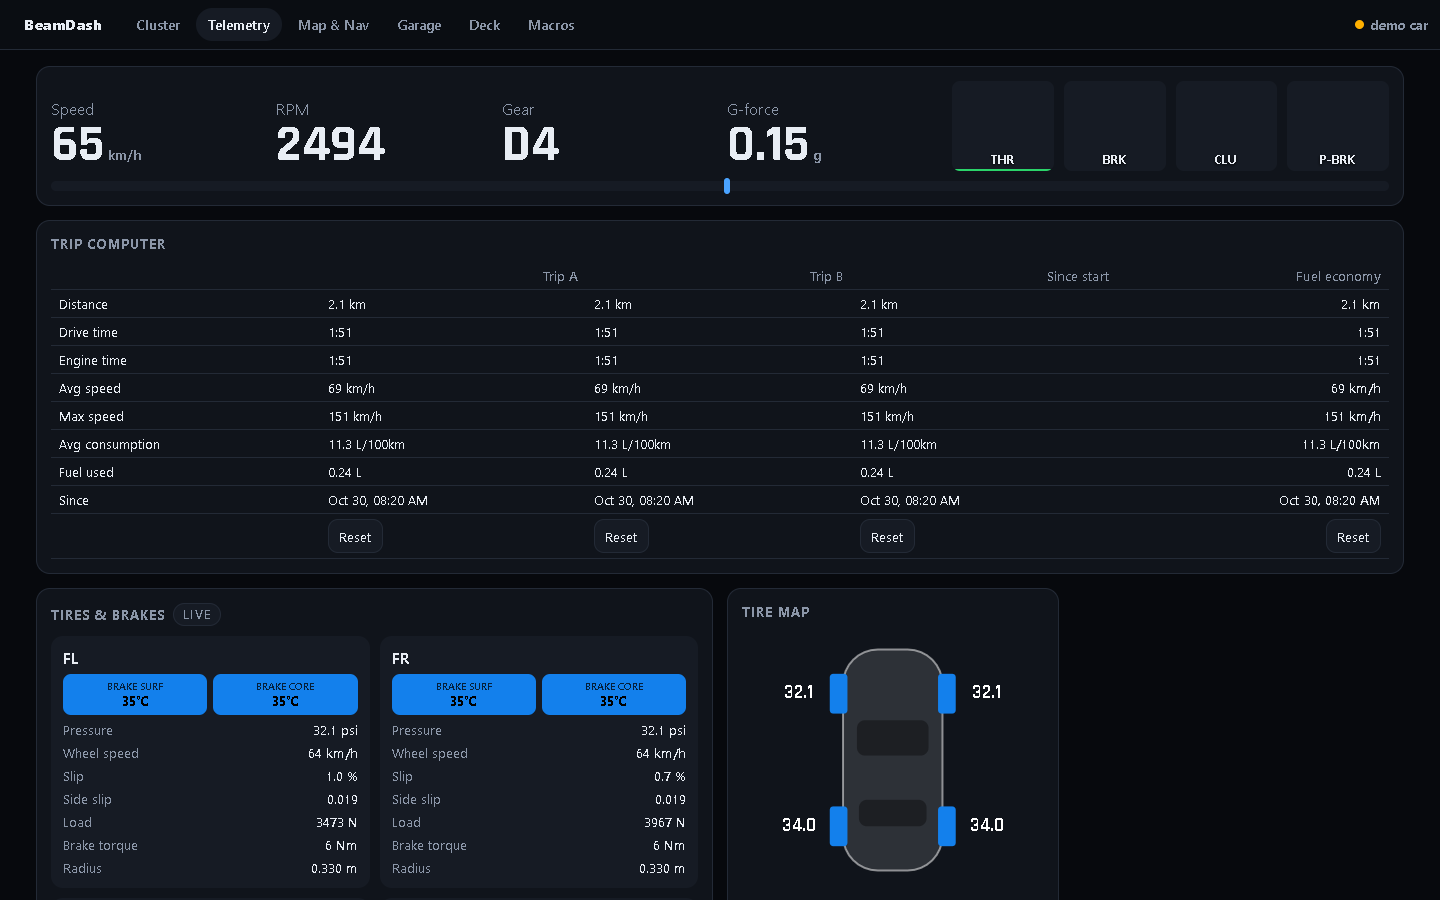
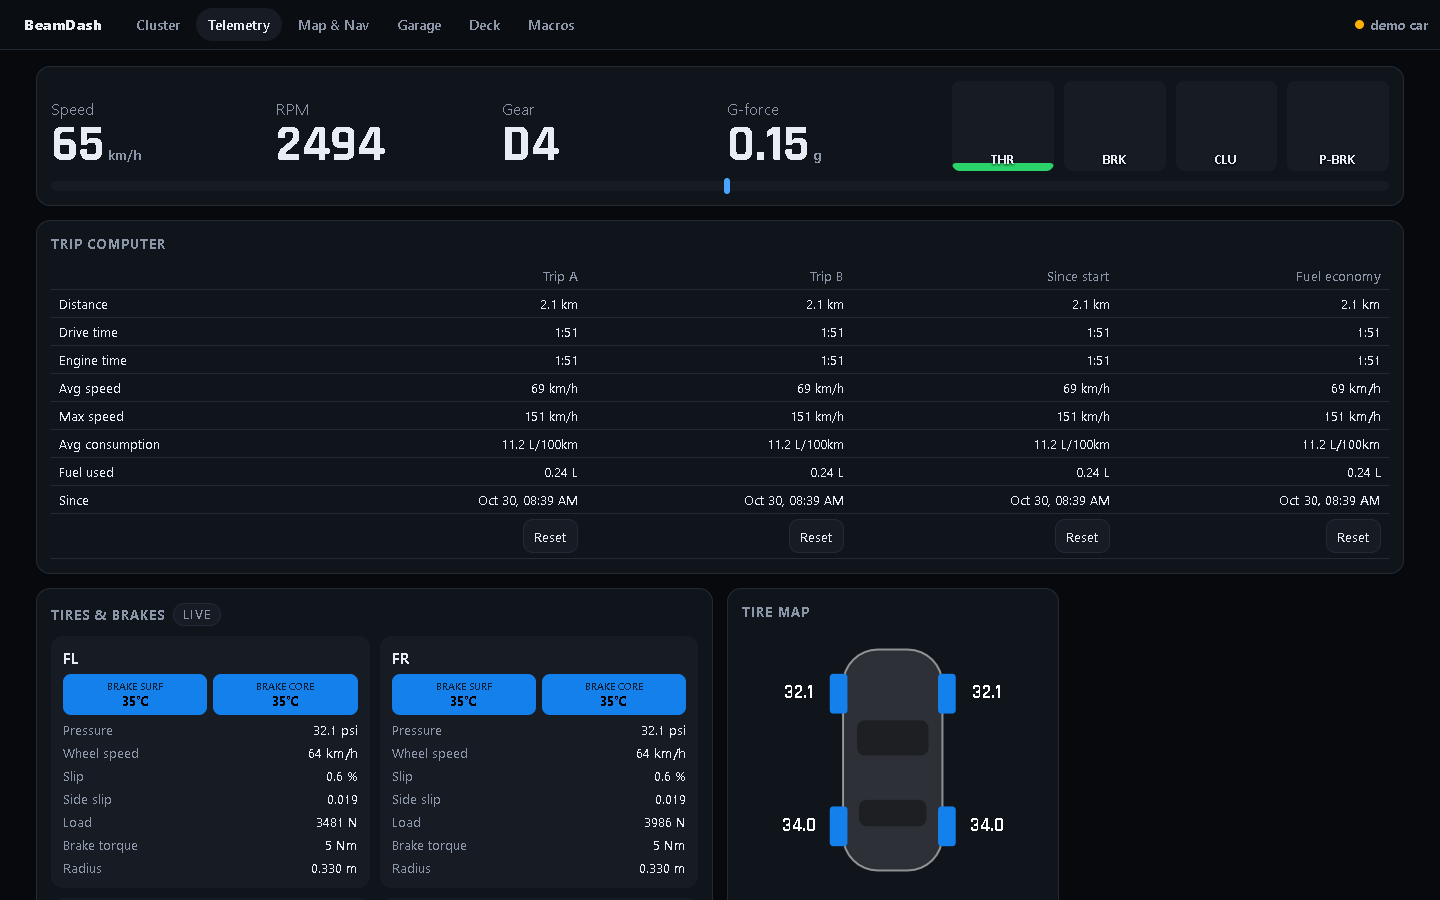
BeamDash alpha 0.03: cruise-control fix, docs and stock images
Mod: cruise now uses BeamNG's cruiseControl vehicle extension and reports the real set speed. Server unchanged. Web app: link-to-a-look URLs, opaque pop-ups, aligned trip table.

Changed region(s): [[0.6562, 0.1556, 0.7188, 0.1867]]

diff --git a/media/promo.html b/media/promo.html
@@ -1,7 +1,7 @@
 <!doctype html>
 <html><head><meta charset="utf-8">
-<title>BeamDash alpha 0.02 promo</title>
-<!-- Promo art for BeamDash alpha 0.02. Render with headless Chrome: ?v=banner at 1920x1080, ?v=designs at 1920x1490. -->
+<title>BeamDash alpha 0.03 promo</title>
+<!-- Promo art for BeamDash alpha 0.03. Render with headless Chrome: ?v=banner at 1920x1080, ?v=designs at 1920x1490. -->
 <link href="https://fonts.googleapis.com/css2?family=Rajdhani:wght@500;600;700&family=Inter:wght@400;600&display=swap" rel="stylesheet">
 <style>
   * { box-sizing: border-box; margin: 0; }
@@ -33,12 +33,12 @@
 <body>
   <section class="view banner">
     <div class="copy">
-      <div class="badge">alpha 0.02 · open source</div>
+      <div class="badge">alpha 0.03 · open source</div>
       <h1>Beam<span>Dash</span></h1>
       <p class="tag">Live gauge clusters, telemetry and car control for BeamNG.drive, on your phone, tablet or second screen.</p>
-      <div class="chips"><span class="chip">20 cluster designs</span><span class="chip">Every car</span><span class="chip">Info pages · ◀ OK ▶</span><span class="chip">Trip computer</span><span class="chip">Live map &amp; GPS</span><span class="chip">Cruise · ACC · ADAS</span><span class="chip">Stream Deck &amp; macros</span><span class="chip">Now playing</span></div>
+      <div class="chips"><span class="chip">20 cluster designs</span><span class="chip">Cruise control fixed</span><span class="chip">Info pages · ◀ OK ▶</span><span class="chip">Trip computer</span><span class="chip">Live map &amp; GPS</span><span class="chip">Cruise · ACC · ADAS</span><span class="chip">Stream Deck &amp; macros</span><span class="chip">Now playing</span></div>
     </div>
-    <div class="stack"><img src="screenshots/cluster-bav86.png"><img src="screenshots/cluster-curve26.png"><img src="screenshots/cluster-skyline99.png"></div>
+    <div class="stack"><img src="screenshots/cluster-bav95.png"><img src="screenshots/cluster-curve26.png"><img src="screenshots/cluster-skyline99.png"></div>
     <img class="phone" src="screenshots/page-deck-phone.png">
     <div class="foot">Works with every car · Phone · iPad · Desktop · Free mod + tiny Node.js server</div>
   </section>

diff --git a/public/css/app.css b/public/css/app.css
@@ -139,6 +139,7 @@ body.cluster.chrome-hidden .dock { transform: translateY(140%); }
 .wheel button.ok { background: rgba(74, 163, 255, .3); border-color: var(--accent); font-size: 15px; }
 .wheel button:active { transform: scale(.94); background: rgba(74, 163, 255, .5); }
 @media (max-height: 420px) { .wheel { gap: 4px; } .wheel button { width: 44px; height: 44px; } }
+body.clean .bd-nav, body.clean .dock, body.clean .wheel, body.clean .chips, body.clean .rotate-hint { display: none !important; }
 .rotate-hint { display: none; }
 @media (orientation: portrait) and (max-width: 700px) {
   .rotate-hint { display: block; position: fixed; left: 0; right: 0; bottom: 90px; text-align: center; color: var(--dim); font-size: 13px; z-index: 20; pointer-events: none; }

diff --git a/public/js/cluster.js b/public/js/cluster.js
@@ -8,6 +8,11 @@
   const ctx = canvas.getContext('2d');
   const VW = 1600, VH = 600;
   let design = DESIGNS.find((x) => x.id === S.design) || DESIGNS[0];
+  // link straight to a look: /?design=bav86&page=trip&clean=1 (clean hides all controls, e.g. for screenshots or OBS)
+  const qp = new URLSearchParams(location.search);
+  if (qp.get('design')) design = DESIGNS.find((x) => x.id === qp.get('design')) || design;
+  if (qp.get('page')) MFD.goto(qp.get('page'));
+  if (qp.has('clean')) document.body.classList.add('clean');
 
   // ---------------------------------------------------------------- options
   function optsFor(def) {

diff --git a/public/js/mfd.js b/public/js/mfd.js
@@ -277,6 +277,10 @@ window.MFD = (() => {
     c.save();
     c.globalAlpha = a;
     const r = area || { x: 490, y: 280, w: 620, h: 300 };
+    // solid backing so glowing gauge numbers don't show through the pop-up
+    c.fillStyle = '#000';
+    rrect(c, r.x, r.y, r.w, r.h, Math.min(r.w, r.h) * 0.06); c.fill();
+    c.strokeStyle = 'rgba(255,255,255,.12)'; c.lineWidth = 2; c.stroke();
     draw(c, d, r.x, r.y, r.w, r.h, th);
     c.restore();
   }

diff --git a/public/telemetry.html b/public/telemetry.html
@@ -33,6 +33,7 @@
     details { border-bottom: 1px solid var(--line); padding: 6px 0; }
     details summary { cursor: pointer; font-weight: 600; font-size: 14px; }
     .search { display: flex; gap: 8px; margin-bottom: 8px; }
+    #trips td:not(:first-child), #trips th:not(:first-child) { text-align: right; }
   </style>
 </head>
 <body>

diff --git a/README.md b/README.md
@@ -3,7 +3,7 @@
 <p align="center"><b>Live gauge clusters, telemetry and car control for BeamNG.drive, on your phone, tablet or second screen.</b></p>
 
 <p align="center">
-  <a href="https://github.com/samsad001/BeamDash/releases"><img src="https://img.shields.io/badge/release-alpha%200.02-ff7a2a?style=for-the-badge" alt="Release alpha 0.02"></a>
+  <a href="https://github.com/samsad001/BeamDash/releases"><img src="https://img.shields.io/badge/release-alpha%200.03-ff7a2a?style=for-the-badge" alt="Release alpha 0.03"></a>
   <img src="https://img.shields.io/badge/BeamNG.drive-0.32%2B-2f80ff?style=for-the-badge" alt="BeamNG.drive 0.32+">
   <img src="https://img.shields.io/badge/Node.js-18%2B-3c873a?style=for-the-badge&logo=node.js&logoColor=white" alt="Node.js 18+">
   <img src="https://img.shields.io/badge/dependencies-0-8a95a8?style=for-the-badge" alt="Zero dependencies">
@@ -20,8 +20,8 @@
   <a href="CHANGELOG.md">Changelog</a>
 </p>
 
-> [!WARNING]
-> **Alpha 0.02.** Cruise control and adaptive cruise don't respond in-game in this release: the mod looks for a cruise *controller*, but BeamNG provides cruise as a vehicle *extension*. Everything else works. A fix is planned for the next release.
+> [!NOTE]
+> **Alpha 0.03.** Cruise control and adaptive cruise were rewritten in this release to use BeamNG's `cruiseControl` vehicle extension (0.01 and 0.02 couldn't control cruise at all). The fix hasn't been confirmed in-game across many cars yet, so please [report](https://github.com/samsad001/BeamDash/issues) how it behaves.
 
 ## ✨ Features
 
@@ -31,6 +31,7 @@
 - 🧮 **Trip computer**: Trip A, Trip B, Since start and a resettable fuel economy, kept on the server so every screen agrees. Hold OK to reset.
 - 🎚 **Deck**: a Stream Deck-style button pad for a second phone, plus a **URL for every function** for Elgato Stream Deck, Companion, Touch Portal or keyboard shortcuts.
 - 🎵 **Now playing** from your PC (Linux, via playerctl), with album art and controls.
+- 🔗 **Link straight to a look**: `/?design=bav86&page=trip&clean=1` opens a design and page with all controls hidden, for OBS or a wall-mounted tablet.
 - 📊 **Live telemetry**: tire and brake temperatures, pressures, slip and load per wheel, engine and drivetrain, G-force, live charts, and every one of the ~200 values the game's UI apps can read.
 - 🗺 **Live map**: the level's real road network with every vehicle and your GPS route. Tap to navigate and the route appears in the game too.
 - 🛡 **Drive assist**: cruise control, adaptive cruise with 4 following distances, forward collision warning, emergency braking, blind-spot monitor, speed-limit signs, ESC and drive modes.
@@ -50,7 +51,7 @@
 
 ## 🚀 Quick start
 
-1. **Download** `BeamDash-alpha-0.02.zip` from the [Releases page](https://github.com/samsad001/BeamDash/releases) and unzip it anywhere.
+1. **Download** `BeamDash-alpha-0.03.zip` from the [Releases page](https://github.com/samsad001/BeamDash/releases) and unzip it anywhere.
 2. **Install the mod:** put `BeamDash-mod.zip` in your BeamNG `mods` folder, or run `bash install-mod.sh` (Linux) / `install-mod.ps1` (Windows). Don't put the whole download in `mods`.
 3. **Start the server:** `bash start-server.sh` (Linux) or `start-server.bat` (Windows). You need [Node.js](https://nodejs.org) 18 or newer.
 4. **Open the address it prints** (e.g. `http://192.168.1.20:8080`) on your phone, iPad or PC, and spawn a car in BeamNG.
@@ -239,6 +240,10 @@ BeamDash/
   server/trips.js           trip computer
   server/media.js           now playing (playerctl)
   data/                     saved trips, ADAS settings, Deck layout (created on first run)
+  docs/MOD_DESCRIPTION.md   mod page text for the BeamNG repository / forum (plain + BBCode)
+  docs/MOD_DOCUMENTATION.md full guide to the mod: install, network, data, commands, assists, troubleshooting
+  docs/TECHNICAL.md         technical write-up: architecture, protocols, algorithms, extending
+  media/                    stock images: banner, designs collage, screenshots/ (+ promo.html source)
   server/demo.js            demo car used when the game isn't connected
   public/                   the web app (cluster, telemetry, map, garage)
     js/designs.js           all cluster designs; add your own with reg({...})
@@ -247,7 +252,7 @@ BeamDash/
 
 ## 🧪 Status
 
-This is an early alpha. It has been tested live on native Linux (BeamNG.drive with LuaSocket): car data, telemetry, the road map and car info all stream correctly. Tuning, navigation, lights and drive-mode commands, and Windows in-game, still need wider testing. Bug reports are very welcome: please [open an issue](https://github.com/samsad001/BeamDash/issues) with your BeamNG version, OS and any console (`~`) lines that mention `beamDash`.
+This is an early alpha. It has been tested live on native Linux (BeamNG.drive with LuaSocket): car data, telemetry, the road map and car info all stream correctly. Tuning, navigation, lights and drive-mode commands, the new cruise-control code, and Windows in-game, still need wider testing. Bug reports are very welcome: please [open an issue](https://github.com/samsad001/BeamDash/issues) with your BeamNG version, OS and any console (`~`) lines that mention `beamDash`.
 
 ## 📄 License
 

diff --git a/docs/TECHNICAL.md b/docs/TECHNICAL.md
@@ -1,4 +1,4 @@
-# BeamDash technical write-up (alpha 0.02)
+# BeamDash technical write-up (alpha 0.03)
 
 > What changed in each release: [`CHANGELOG.md`](../CHANGELOG.md).
 
@@ -63,7 +63,7 @@ Every datagram is one JSON object with a type field `t`. Messages from the vehic
 
 | `t` | From | Rate | Payload (main fields) |
 |---|---|---|---|
-| `veh` | vehicle | 30 Hz | `e` (~60 whitelisted electrics), `g` [gx, gy, gz] m/s², `pos`, `vel`, `dir` (vec3), every 2nd packet `wheels[]` |
+| `veh` | vehicle | 30 Hz | `e` (~60 whitelisted electrics, incl. cruise state), `g` [gx, gy, gz] m/s², `pos`, `vel`, `dir` (vec3), every 2nd packet `wheels[]` |
 | `electrics` | vehicle | 4 Hz | `e`: every scalar in `electrics.values` |
 | `pt` | vehicle | 4 Hz | `pt{name → device scalars + rpmOut}`, `energy{tank → scalars}`, `damage` |
 | `spec` | vehicle | 5 s | `engine{maxRPM, idleRPM, revLimiterRPM, maxPower, maxTorque, …}`, `gearbox{type, ratios}`, `controllers[]`, `driveMode`, `mass` |
@@ -229,7 +229,7 @@ ACC is a proportional gap controller on top of the game's own cruise control (wh
 | `playerInfo.firstPlayerSeated` | stream only the player's car | ✅ confirmed |
 | `map.objects`, `map.getMap()`, `map.findClosestRoad` | world, roads, limits | ✅ confirmed (road network received) |
 | `core_vehicles.getCurrentVehicleDetails`, `core_vehicle_manager.getPlayerVehicleData` | car info, tuning variables | ✅ confirmed |
-| `controller.getController('cruiseControl')` | cruise / ACC | ❌ not found in-game; cruise doesn't work (a fix is planned for the next release) |
+| `extensions.cruiseControl` (`setSpeed`, `changeSpeed`, `holdCurrentSpeed`, `setEnabled`, `getConfiguration`) | cruise / ACC | ⚠ patched to the extension API after the controller lookup failed in-game; to be confirmed |
 | `core_vehicle_partmgmt.setConfigVars` | apply tuning | to be confirmed in-game |
 | `core_groundMarkers.setPath` / `routePlanner.path` | GPS route | to be confirmed in-game |
 | `electrics.setLightsState`, `toggle_*_signal`, `toggle_warn_signal`, `toggle_fog_lights`, `horn` | lights | to be confirmed in-game |
@@ -294,6 +294,8 @@ It appears in the picker automatically (grouped by `era`) with a live thumbnail.
 
 **Add an MFD page:** add `{ id, name }` to `PAGES` and a renderer `R.<id>` (plus a `line()` case) in `mfd.js`.
 
+**Link to a specific look** (for OBS or a kiosk tablet): `/?design=<id>&page=<page>&clean=1`.
+
 ---
 
 ## 12. Testing
@@ -301,13 +303,13 @@ It appears in the picker automatically (grouped by `era`) with a live thumbnail.
 - **Demo mode** covers every page, every design and every action without the game.
 - A **fake-game UDP script** (sends `veh` / `world` packets and a chunked 6 000-node map, then listens on 4446) verified the demo → live hand-off, chunk reassembly and command forwarding.
 - Lua files are checked for block balance; the game itself is the final check (watch the `~` console for `beamDash` lines).
+- Stock images are captured from the demo server with headless Chrome over the DevTools protocol (the live SSE stream keeps pages "busy", so simple `--screenshot` never finishes).
 
 ---
 
 ## 13. Known limitations
 
-- Cruise control and adaptive cruise don't work in-game (a fix is planned for the next release).
-- Several command APIs (§7) are still to be confirmed in-game.
+- Several command APIs (§7) are still to be confirmed in-game. Cruise control was just switched to the extension API.
 - Tire *surface* temperature only appears if the BeamNG version exposes it; brake temperatures and pressures are always there.
 - Speed limits depend on the level's navigation data.
 - Range and consumption are estimates from fuel-volume changes; they settle after a few hundred metres.

diff --git a/CHANGELOG.md b/CHANGELOG.md
@@ -4,6 +4,33 @@ Each release lists the changes to the **mod** (the Lua files inside BeamNG) and 
 
 ---
 
+## alpha 0.03 (2026-10-30)
+
+**Mod: changed. Reinstall it** (`BeamDash-mod.zip`, or copy the two `lua/…` files over an unpacked install, then restart BeamNG).
+
+### Mod
+- `beamDashVeh.lua`
+  - **Cruise control fixed.** It now uses BeamNG's `cruiseControl` vehicle *extension* (loading it if needed), and only falls back to a `cruiseControl` controller. In 0.01 and 0.02 the mod only looked for the controller, which cars don't have, so every cruise button did nothing.
+  - Cruise state (on/off and set speed) is read from the extension's `getConfiguration` and sent as `cruiseControlActive` / `cruiseControlTarget`, so the cluster shows the real set speed.
+  - *Resume* re-applies the last set speed (the extension can forget it when switched off).
+  - New `cruiseSetSpeed()` function the game-side extension calls.
+  - Clear error ("this car has no cruise control") when a car really has none.
+- `beamDash.lua`: adaptive cruise and *set speed* now go through `beamDashVeh.cruiseSetSpeed` instead of the controller.
+
+### Server
+- No changes.
+
+### Web app
+- Link straight to a look: `/?design=<id>&page=<page>&clean=1` (`clean` hides all controls, for screenshots, OBS or a kiosk tablet).
+- Pop-up info pages have a solid background, so gauge glow no longer shows through.
+- Trip computer table on Telemetry: number columns line up.
+
+### Docs and images (new)
+- `docs/MOD_DESCRIPTION.md` (repository / forum text, plain and BBCode), `docs/MOD_DOCUMENTATION.md` (install, network, data, commands, assists, troubleshooting, FAQ), `docs/TECHNICAL.md` (architecture, protocol, algorithms, APIs).
+- `media/`: banner, designs collage, `promo.html` source and screenshots of every design and page.
+
+---
+
 ## alpha 0.02 (2026-10-30)
 
 **Mod: no changes** (same Lua as 0.01, so no reinstall needed).
@@ -31,7 +58,7 @@ Each release lists the changes to the **mod** (the Lua files inside BeamNG) and 
 
 
 ### Known issues
-- Cruise control does nothing in-game (a fix is planned for the next release).
+- Cruise control does nothing in-game (fixed in 0.03).
 
 ---
 
@@ -67,5 +94,5 @@ Each release lists the changes to the **mod** (the Lua files inside BeamNG) and 
 - `start-server.bat` / `.sh`, `install-mod.ps1` / `.sh` (finds native, Proton or Flatpak installs) and `beamdash.service` (system unit), plus the README.
 
 ### Known issues
-- Cruise control (and adaptive cruise) does nothing in-game (a fix is planned for the next release).
+- Cruise control (and adaptive cruise) does nothing in-game (fixed in 0.03).
 - The mod only runs if `lua/` and `scripts/` sit directly in the mod folder. This was found in the first live test, when the whole project folder had been put in `mods`.

diff --git a/docs/MOD_DOCUMENTATION.md b/docs/MOD_DOCUMENTATION.md
@@ -1,4 +1,4 @@
-# BeamDash mod documentation (alpha 0.02)
+# BeamDash mod documentation (alpha 0.03)
 
 > What changed in each release: [`CHANGELOG.md`](../CHANGELOG.md).
 
@@ -98,7 +98,7 @@ All data is sent only to the BeamDash server you run. Nothing goes to the intern
 
 | Data | Rate | Source in the game |
 |---|---|---|
-| Speed, rpm, gear, pedals, steering, temperatures, boost, fuel, lights, assists, cruise, odometer | 30 Hz | vehicle electrics |
+| Speed, rpm, gear, pedals, steering, temperatures, boost, fuel, lights, assists, cruise, odometer | 30 Hz | vehicle electrics + cruise control |
 | G-forces, position, velocity, heading | 30 Hz | vehicle sensors / object |
 | Wheels: speed, slip, side slip, load, brake temps & torque, pressure, deflated / broken | 15 Hz | wheel rotators |
 | Every electrics value (~200) | 4 Hz | `electrics.values` |
@@ -129,8 +129,6 @@ Sent from the web app, the Deck, or a macro URL.
 | World | time of day, pause / resume |
 
 If a car lacks a feature (e.g. no drive modes), the command fails safely and the app shows a short message.
-
-> **Known issue in this build:** cruise control (and so adaptive cruise) does nothing in-game. The mod looks for a `cruiseControl` *controller*, but BeamNG provides cruise as a vehicle *extension*. A fix is planned for the next release. The mod is the same as in alpha 0.01.
 
 ---
 
@@ -164,7 +162,7 @@ In BeamNG: Options → Other → **OutGauge**. Turn it on with IP = the server's
 | Status stays **demo car** / **waiting for game** | Is the mod active in the Mod Manager? Does `settings/beamDash.json` exist? Any red `beamDash` lines in the console (`~`)? Is the mod folder layout right (see §1)? |
 | Works on the PC but not on the phone | Same Wi-Fi? Use the IP address the server prints. Is TCP 8080 open in the firewall? Some routers block devices on different Wi-Fi networks (VLANs / guest networks) from reaching each other. |
 | Server on another PC never connects | Started with `--game-host`? Is UDP 4446 open on the game PC and UDP 4445 on the server PC? |
-| Cruise does nothing | Known issue in this build (see §4). A fix is planned for the next release. |
+| Cruise does nothing | Does the car have cruise control in the game (the stock Cruise Control UI app works)? Check the console for `cruise` errors. |
 | Map is empty | Map & Nav → *Reload map*. Large levels take a few seconds. |
 | "LuaSocket unavailable" in the console | That BeamNG build doesn't include the network library the mod needs; please report it. |
 

diff --git a/docs/MOD_DESCRIPTION.md b/docs/MOD_DESCRIPTION.md
@@ -1,4 +1,4 @@
-# BeamDash alpha 0.02: mod page description
+# BeamDash alpha 0.03: mod page description
 
 Ready-to-paste text for the BeamNG.drive repository / forum. There's a plain version and a BBCode version (the forum uses BBCode).
 
@@ -8,7 +8,7 @@ Ready-to-paste text for the BeamNG.drive repository / forum. There's a plain ver
 
 ## Title
 
-**BeamDash: Live Gauge Clusters, Telemetry & Car Control on Your Phone (alpha 0.02)**
+**BeamDash: Live Gauge Clusters, Telemetry & Car Control on Your Phone (alpha 0.03)**
 
 ## Short description (one line)
 
@@ -64,7 +64,6 @@ BeamDash streams live data from BeamNG.drive to a web app you open on your phone
 Full guide: `docs/MOD_DOCUMENTATION.md` in the download.
 
 **Notes**
-- Alpha: cruise control doesn't respond in-game in this build. A fix is planned for the next release.
 - Cluster designs are original artwork *inspired by* the look of real cars of each era. BeamDash is not affiliated with or endorsed by any car maker.
 - The app only works on your local network. Don't expose its port to the internet.
 - No mod? The cluster also runs in basic mode from BeamNG's built-in OutGauge output.
@@ -72,7 +71,7 @@ Full guide: `docs/MOD_DOCUMENTATION.md` in the download.
 ## Full description (BBCode for the forum)
 
 ```bbcode
-[SIZE=6][B]BeamDash[/B] alpha 0.02 - Live Gauge Clusters, Telemetry & Car Control on Your Phone[/SIZE]
+[SIZE=6][B]BeamDash[/B] alpha 0.03 - Live Gauge Clusters, Telemetry & Car Control on Your Phone[/SIZE]
 
 Turn any [B]phone, tablet or second screen[/B] into a working instrument cluster for [B]every car[/B] in BeamNG.drive. Spawn a car and its details load automatically.
 
